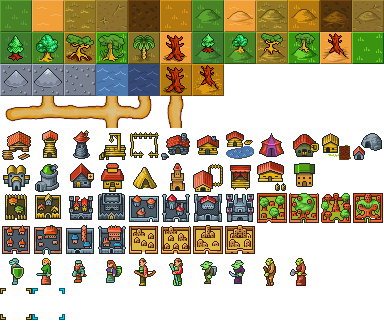
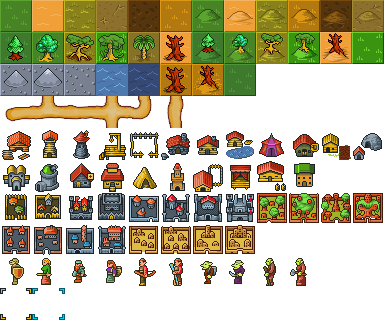
gh-729 обновить графику на карте

diff --git a/the_tale/static/game/map/sprites.js b/the_tale/static/game/map/sprites.js
@@ -57,6 +57,7 @@ pgf.tilesets = {
             HILLS_JUNGLE:          { y: 1 * 32, x: 9 * 32 },
             // HILLS_WITHERED_FOREST: { y: 1 * 32, x: 10 * 32 },
             HILLS_WITHERED_FOREST: { y: 2 * 32, x: 6 * 32 },
+            PLANE_CONIFER_GRASS:   { y: 2 * 32, x: 7 * 32 },
 
             MOUNTAINS_BACKGROUND:  { y: 2 * 32, x: 2 * 32},
             JUNGLE_BACKGROUD:      { y: 1 * 32, x: 11 * 32},
@@ -71,7 +72,7 @@ pgf.tilesets = {
             BOARD_PLANE_DRY_GRASS:       'PLANE_DRY_GRASS',
             BOARD_PLANE_GRASS:           'PLANE_GRASS',
             BOARD_PLANE_SWAMP_GRASS:     'PLANE_SWAMP_GRASS',
-            BOARD_PLANE_CONIFER_FOREST:  'PLANE_GRASS',
+            BOARD_PLANE_CONIFER_FOREST:  'PLANE_CONIFER_GRASS',
             BOARD_PLANE_GREENWOOD:       'PLANE_GRASS',
             BOARD_PLANE_SWAMP_FOREST:    'PLANE_SWAMP_GRASS',
             BOARD_PLANE_JUNGLE:          'JUNGLE_BACKGROUD',
@@ -82,7 +83,7 @@ pgf.tilesets = {
             BOARD_HILLS_DRY_GRASS:       'PLANE_DRY_GRASS',
             BOARD_HILLS_GRASS:           'PLANE_GRASS',
             BOARD_HILLS_SWAMP_GRASS:     'PLANE_SWAMP_GRASS',
-            BOARD_HILLS_CONIFER_FOREST:  'PLANE_GRASS',
+            BOARD_HILLS_CONIFER_FOREST:  'PLANE_CONIFER_GRASS',
             BOARD_HILLS_GREENWOOD:       'PLANE_GRASS',
             BOARD_HILLS_SWAMP_FOREST:    'PLANE_SWAMP_GRASS',
             BOARD_HILLS_JUNGLE:          'JUNGLE_BACKGROUD',
